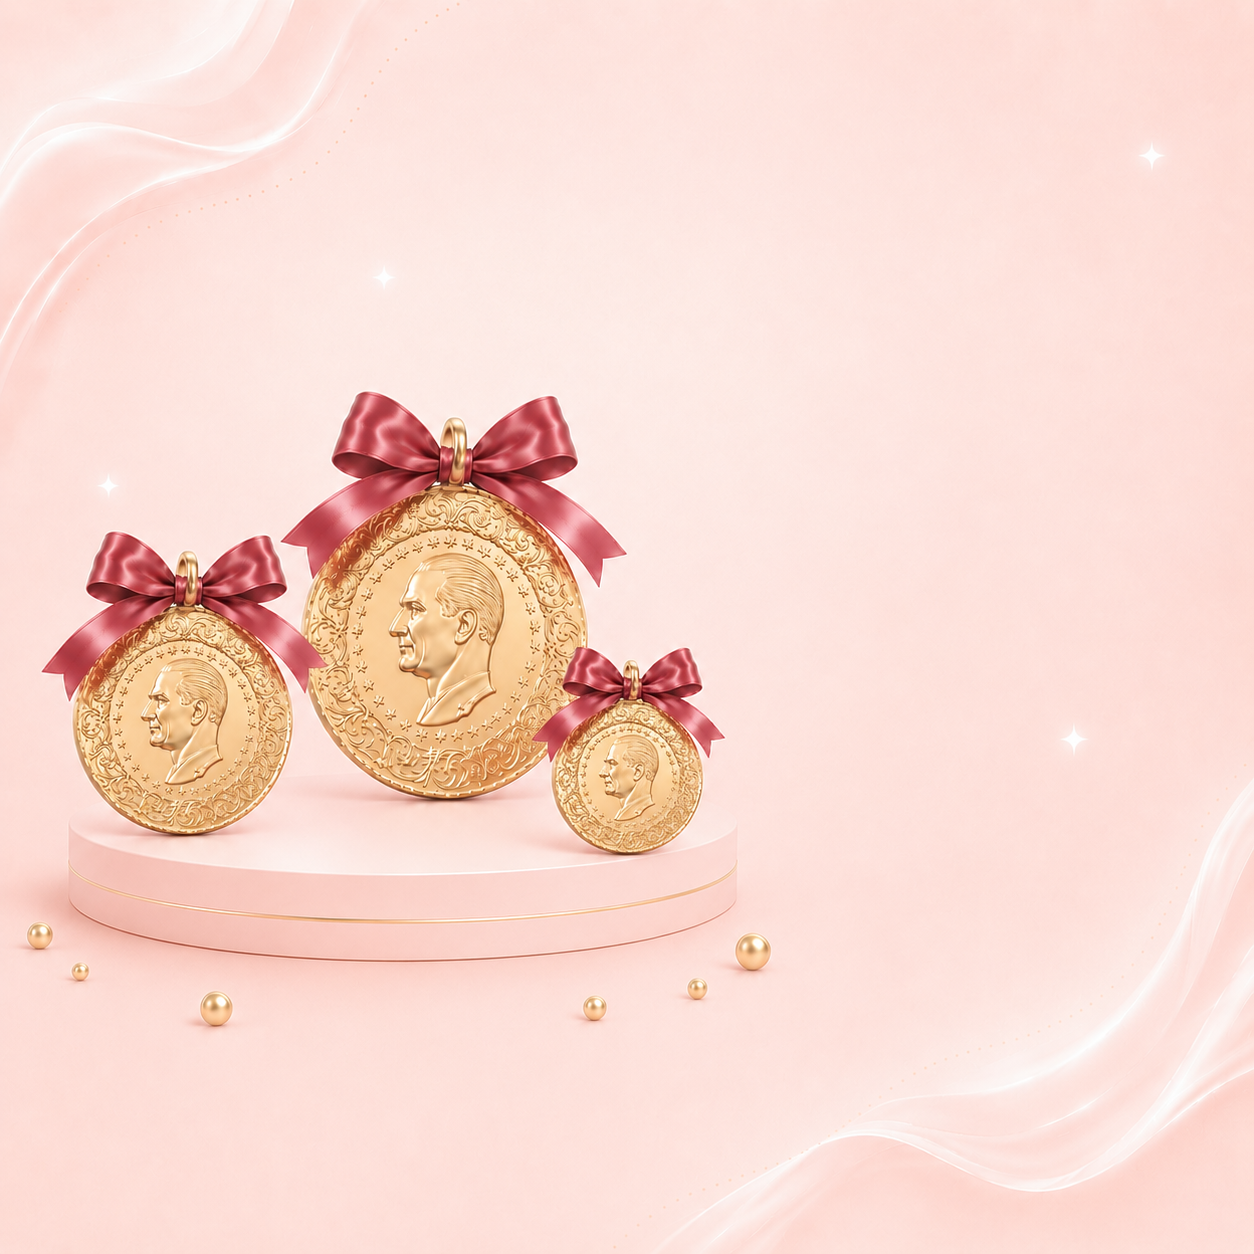
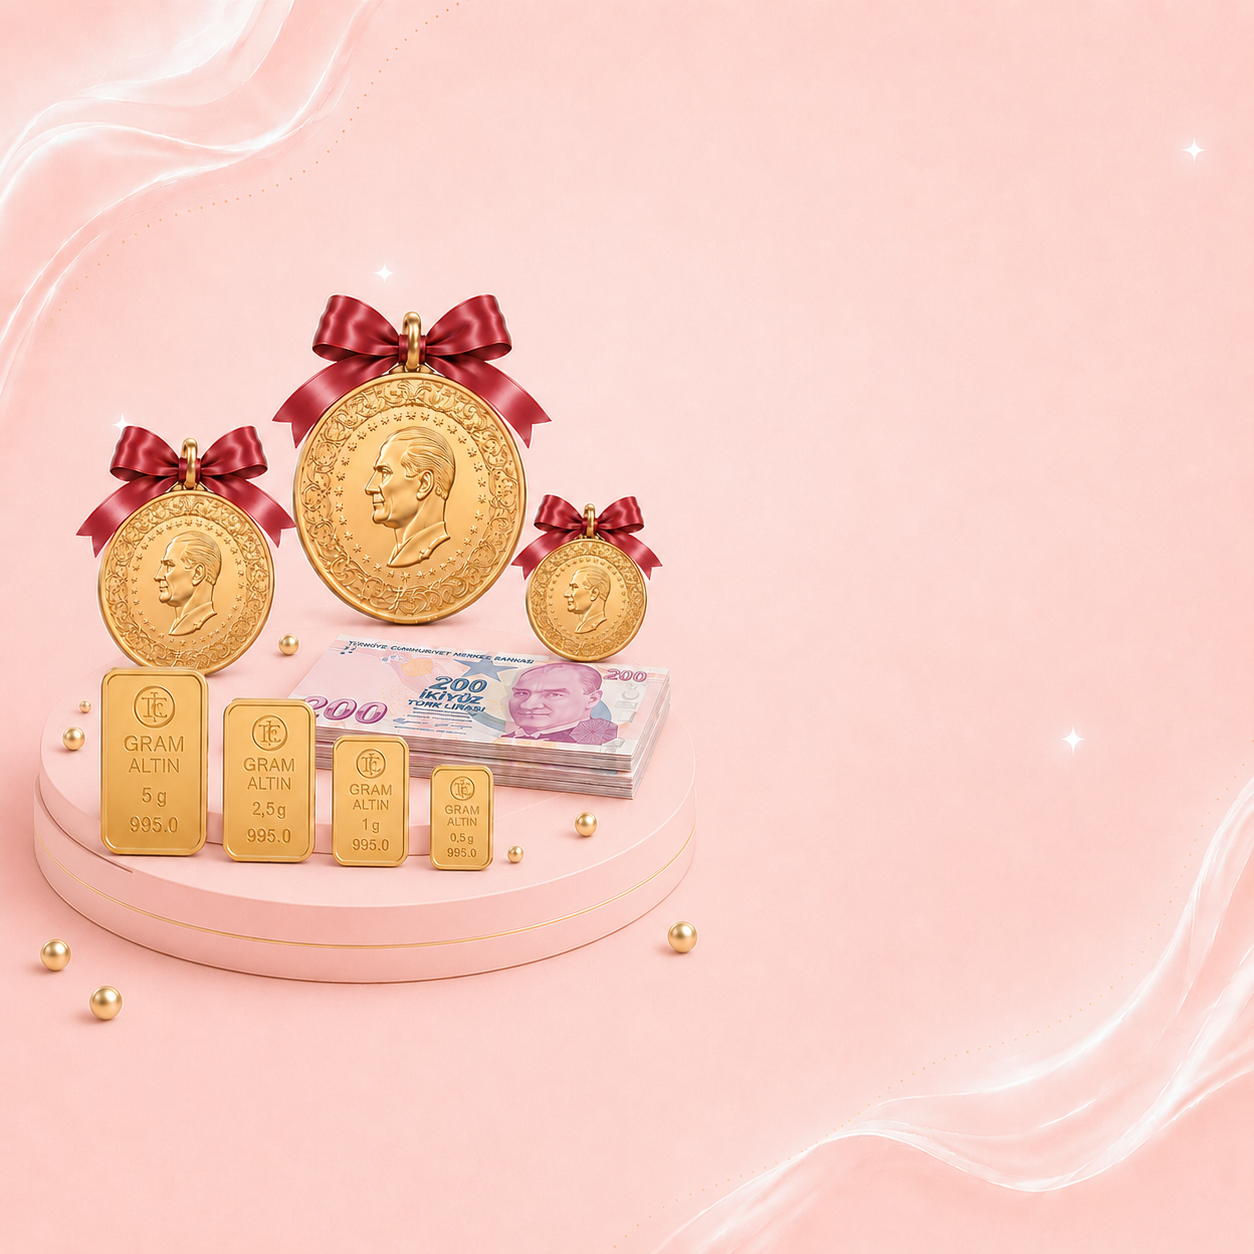
feat: premium section divider + mobil padding sıkılaştırma + altın tak yeni image'lar
1) 7 bölüm geçişine premium hairline + diamond ornament eklendi
   (mobil + masaüstü, rose tonlu gradient line + 4px dot)
2) Mobilde tüm major section'lar py-28 → py-16 md:py-28
   (Hero→Cards geçişiyle aynı kompakt mobile rhythm)
3) Altın Tak yeni image'lar:
   - Mobil: Altın Tak mobil 4 (içerik sağa alındı, canlı/tebrik tarzı heading + dash)
   - Masaüstü: altın tak masaustu 6 (1954x805)
4) Cream overlay 3 kartta genişletildi (62% → 72%)

Changed region(s): [[0.0, 0.2177, 0.622, 0.8397], [0.4665, 0.7775, 0.4976, 0.8086]]

diff --git a/app/page.tsx b/app/page.tsx
@@ -569,6 +569,13 @@ export default function Home() {
         </div>
       </section>
 
+      {/* Premium section divider — hairline + diamond ornament */}
+      <div aria-hidden="true" className="flex items-center justify-center gap-2.5 py-3 md:py-4">
+        <span className="h-px w-14 md:w-20" style={{ background: 'linear-gradient(90deg, transparent, rgba(200,104,110,0.30), transparent)' }} />
+        <span className="w-1 h-1 rounded-full" style={{ background: 'rgba(200,104,110,0.45)' }} />
+        <span className="h-px w-14 md:w-20" style={{ background: 'linear-gradient(90deg, transparent, rgba(200,104,110,0.30), transparent)' }} />
+      </div>
+
       {/* ÖZELLİK KARTLARI - Altın Toplama + Nikah Albümü */}
       <section className="py-16">
         <div className="max-w-7xl mx-auto px-6 space-y-14 md:space-y-16">
@@ -629,24 +636,18 @@ export default function Home() {
             <img src="/altin-toplama-masaustu.png" alt="" className="hidden md:block absolute inset-0 w-full h-full object-cover pointer-events-none select-none" />
             {/* Cream overlay — sağ içerik tarafı krem, solda image'a fade (text sağda, altın görseli solda) */}
             <div className="hidden md:block absolute right-0 top-0 h-full w-[72%] pointer-events-none" style={{ background: 'linear-gradient(to left, rgba(255, 248, 240, 0.70) 0%, rgba(255, 248, 240, 0.70) 65%, rgba(255, 248, 240, 0) 100%)' }} />
-            {/* Mobil — heading albüm tarzı (rose üst + dash siyah alt), desc 6 satır sağda */}
+            {/* Mobil — heading sağda (canlı yayın/tebrik tarzı), badges altta ortalı */}
             <div className="md:hidden relative min-h-[340px]">
-              {/* Heading — üst, albüm kartı tarzı (rose üst kelime + dashes+siyah alt) */}
-              <div className="absolute left-0 right-0 text-center px-4" style={{ top: '20px', fontFamily: 'var(--font-playfair), Georgia, serif', fontWeight: 500, letterSpacing: '0.3px', lineHeight: 1.15 }}>
-                <div style={{ color: '#C8686E', fontSize: 'clamp(26px, 4.6vw, 36px)' }}>Altınlarınızı</div>
-                <div className="flex items-center justify-center gap-3 md:gap-4 mt-0.5" style={{ fontSize: 'clamp(26px, 4.6vw, 36px)' }}>
-                  <span className="flex-shrink-0 h-[1.5px] rounded-full" style={{ width: 'clamp(28px, 7vw, 50px)', background: 'linear-gradient(to right, transparent, #C8686E, transparent)' }} />
-                  <span style={{ color: '#2B2B2B' }}>Online Toplayın</span>
-                  <span className="flex-shrink-0 h-[1.5px] rounded-full" style={{ width: 'clamp(28px, 7vw, 50px)', background: 'linear-gradient(to left, transparent, #C8686E, transparent)' }} />
-                </div>
-              </div>
-              {/* Açıklama — sağa yapışık */}
-              <div className="absolute right-4 max-w-[55%] text-right" style={{ top: '44%' }}>
-                <p className="text-[12px] leading-relaxed" style={{ color: '#6E5A5A' }}>
+              {/* Heading + dash + açıklama — sağda (canlı yayın/tebrik mobil ile aynı yapı) */}
+              <div className="absolute" style={{ top: '17%', right: '5.5%', width: '54%' }}>
+                <h3 className="leading-[1.05] text-right" style={{ fontFamily: 'var(--font-playfair)', color: '#C8686E', fontWeight: 600, fontSize: 'clamp(26px, 6.4vw, 52px)' }}>Altınlarınızı</h3>
+                <h3 className="leading-[1.1] mt-1 text-right" style={{ fontFamily: 'var(--font-playfair)', color: '#1F1F1F', fontWeight: 600, fontSize: 'clamp(20px, 4.8vw, 38px)' }}>Online Toplayın</h3>
+                <div className="mt-3 ml-auto" style={{ width: 'clamp(38px, 9vw, 64px)', height: '2px', background: '#C8686E', borderRadius: '2px' }} />
+                <p className="mt-3 leading-relaxed text-[13px] text-right" style={{ color: '#6E5A5A' }}>
                   Davetlileriniz size<br />
                   doğrudan para gönderir,<br />
-                  siz uygulamadan kolayca<br />
-                  takip edersiniz.
+                  siz uygulamadan<br />
+                  kolayca takip edersiniz.
                 </p>
               </div>
               {/* Badges — alt tam ortalı */}
@@ -892,8 +893,15 @@ export default function Home() {
         </div>
       </section>
 
+      {/* Premium section divider */}
+      <div aria-hidden="true" className="flex items-center justify-center gap-2.5 py-3 md:py-4">
+        <span className="h-px w-14 md:w-20" style={{ background: 'linear-gradient(90deg, transparent, rgba(200,104,110,0.30), transparent)' }} />
+        <span className="w-1 h-1 rounded-full" style={{ background: 'rgba(200,104,110,0.45)' }} />
+        <span className="h-px w-14 md:w-20" style={{ background: 'linear-gradient(90deg, transparent, rgba(200,104,110,0.30), transparent)' }} />
+      </div>
+
       {/* NASIL ÇALIŞIR — Tone A (rose-cream) */}
-      <section id="nasil-calisir" className="py-28" style={{ background: 'linear-gradient(180deg, #FDF7F3 0%, #FAF4F0 100%)' }}>
+      <section id="nasil-calisir" className="py-16 md:py-28" style={{ background: 'linear-gradient(180deg, #FDF7F3 0%, #FAF4F0 100%)' }}>
         <div className="max-w-7xl mx-auto px-6">
           <div className="text-center mb-20">
             <h2 className="text-4xl lg:text-5xl font-bold text-gray-900" style={{ fontFamily: 'var(--font-playfair)' }}>3 Adımda <span className="gradient-text">Başlayın</span></h2>
@@ -936,8 +944,15 @@ export default function Home() {
       </section>
 
       {/* NEDEN NİKAHIM */}
+      {/* Premium section divider */}
+      <div aria-hidden="true" className="flex items-center justify-center gap-2.5 py-3 md:py-4">
+        <span className="h-px w-14 md:w-20" style={{ background: 'linear-gradient(90deg, transparent, rgba(200,104,110,0.30), transparent)' }} />
+        <span className="w-1 h-1 rounded-full" style={{ background: 'rgba(200,104,110,0.45)' }} />
+        <span className="h-px w-14 md:w-20" style={{ background: 'linear-gradient(90deg, transparent, rgba(200,104,110,0.30), transparent)' }} />
+      </div>
+
       {/* NEDEN NİKAHIM — Tone B (body cream) */}
-      <section id="neden-nikahim" className="py-28" style={{ background: '#FAF7F5' }}>
+      <section id="neden-nikahim" className="py-16 md:py-28" style={{ background: '#FAF7F5' }}>
         <div className="max-w-7xl mx-auto px-6">
           <div className="text-center mb-20">
             <h2 className="text-4xl lg:text-5xl font-bold text-gray-900 mb-5" style={{ fontFamily: 'var(--font-playfair)' }}>Neden <span className="gradient-text">Nikahım?</span></h2>
@@ -971,8 +986,15 @@ export default function Home() {
       </section>
 
       {/* PAKETLER */}
+      {/* Premium section divider */}
+      <div aria-hidden="true" className="flex items-center justify-center gap-2.5 py-3 md:py-4">
+        <span className="h-px w-14 md:w-20" style={{ background: 'linear-gradient(90deg, transparent, rgba(200,104,110,0.30), transparent)' }} />
+        <span className="w-1 h-1 rounded-full" style={{ background: 'rgba(200,104,110,0.45)' }} />
+        <span className="h-px w-14 md:w-20" style={{ background: 'linear-gradient(90deg, transparent, rgba(200,104,110,0.30), transparent)' }} />
+      </div>
+
       {/* PAKETLER — Tone A */}
-      <section id="paketler" className="py-28" style={{ background: 'linear-gradient(180deg, #FDF7F3 0%, #FAF4F0 100%)' }}>
+      <section id="paketler" className="py-16 md:py-28" style={{ background: 'linear-gradient(180deg, #FDF7F3 0%, #FAF4F0 100%)' }}>
         <div className="max-w-7xl mx-auto px-6">
           <div className="text-center mb-12">
             <h2 className="text-4xl lg:text-5xl font-bold text-gray-900 mb-5" style={{ fontFamily: 'var(--font-playfair)' }}>Size Uygun <span className="gradient-text">Paketi Seçin</span></h2>
@@ -1069,8 +1091,15 @@ export default function Home() {
         </div>
       </section>
 
+      {/* Premium section divider */}
+      <div aria-hidden="true" className="flex items-center justify-center gap-2.5 py-3 md:py-4">
+        <span className="h-px w-14 md:w-20" style={{ background: 'linear-gradient(90deg, transparent, rgba(200,104,110,0.30), transparent)' }} />
+        <span className="w-1 h-1 rounded-full" style={{ background: 'rgba(200,104,110,0.45)' }} />
+        <span className="h-px w-14 md:w-20" style={{ background: 'linear-gradient(90deg, transparent, rgba(200,104,110,0.30), transparent)' }} />
+      </div>
+
       {/* NİKAH ARA — Tone B (body cream) */}
-      <section id="nikah-ara" className="py-28" style={{ background: '#FAF7F5' }}>
+      <section id="nikah-ara" className="py-16 md:py-28" style={{ background: '#FAF7F5' }}>
         <div className="max-w-4xl mx-auto px-6">
           <div className="text-center mb-14">
             <h2 className="text-4xl lg:text-5xl font-bold text-gray-900 mb-5" style={{ fontFamily: 'var(--font-playfair)' }}>Katılmak için <span className="gradient-text">Canlı Yayın</span> arayın</h2>
@@ -1114,8 +1143,15 @@ export default function Home() {
       </section>
 
       {/* SSS */}
+      {/* Premium section divider */}
+      <div aria-hidden="true" className="flex items-center justify-center gap-2.5 py-3 md:py-4">
+        <span className="h-px w-14 md:w-20" style={{ background: 'linear-gradient(90deg, transparent, rgba(200,104,110,0.30), transparent)' }} />
+        <span className="w-1 h-1 rounded-full" style={{ background: 'rgba(200,104,110,0.45)' }} />
+        <span className="h-px w-14 md:w-20" style={{ background: 'linear-gradient(90deg, transparent, rgba(200,104,110,0.30), transparent)' }} />
+      </div>
+
       {/* SSS — Tone A */}
-      <section id="sss" className="py-28" style={{ background: 'linear-gradient(180deg, #FDF7F3 0%, #FAF4F0 100%)' }}>
+      <section id="sss" className="py-16 md:py-28" style={{ background: 'linear-gradient(180deg, #FDF7F3 0%, #FAF4F0 100%)' }}>
         <div className="max-w-3xl mx-auto px-6">
           <div className="text-center mb-16">
             <h2 className="text-4xl lg:text-5xl font-bold text-gray-900 mb-4" style={{ fontFamily: 'var(--font-playfair)' }}>Sıkça Sorulan <span className="gradient-text">Sorular</span></h2>
@@ -1142,8 +1178,15 @@ export default function Home() {
       </section>
 
       {/* İLETİŞİM */}
+      {/* Premium section divider */}
+      <div aria-hidden="true" className="flex items-center justify-center gap-2.5 py-3 md:py-4">
+        <span className="h-px w-14 md:w-20" style={{ background: 'linear-gradient(90deg, transparent, rgba(200,104,110,0.30), transparent)' }} />
+        <span className="w-1 h-1 rounded-full" style={{ background: 'rgba(200,104,110,0.45)' }} />
+        <span className="h-px w-14 md:w-20" style={{ background: 'linear-gradient(90deg, transparent, rgba(200,104,110,0.30), transparent)' }} />
+      </div>
+
       {/* BİZE ULAŞIN — Tone B */}
-      <section id="iletisim" className="py-28" style={{ background: '#FAF7F5' }}>
+      <section id="iletisim" className="py-16 md:py-28" style={{ background: '#FAF7F5' }}>
         <div className="max-w-2xl mx-auto px-6">
           <div className="text-center mb-14">
             <h2 className="text-4xl lg:text-5xl font-bold text-gray-900 mb-4" style={{ fontFamily: 'var(--font-playfair)' }}>Bize <span className="gradient-text">Ulaşın</span></h2>
